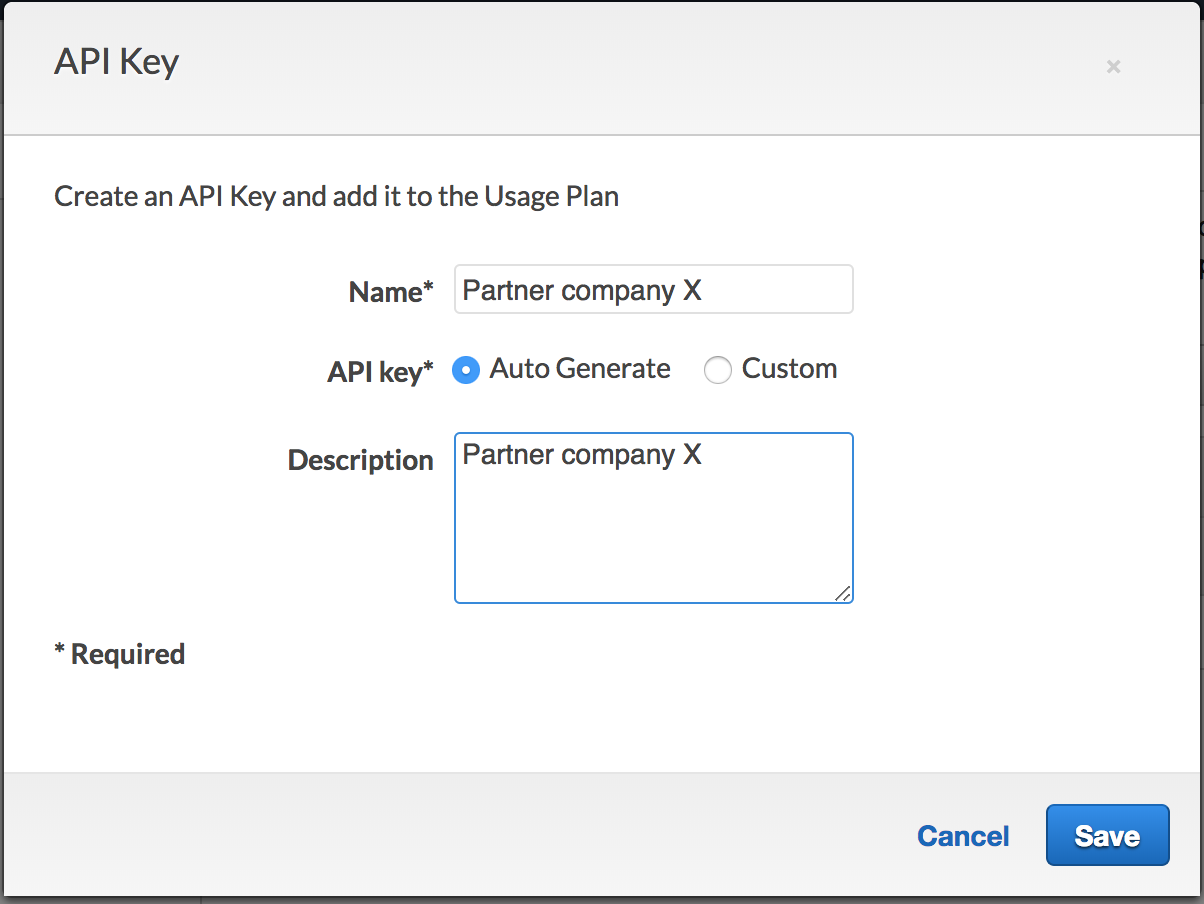
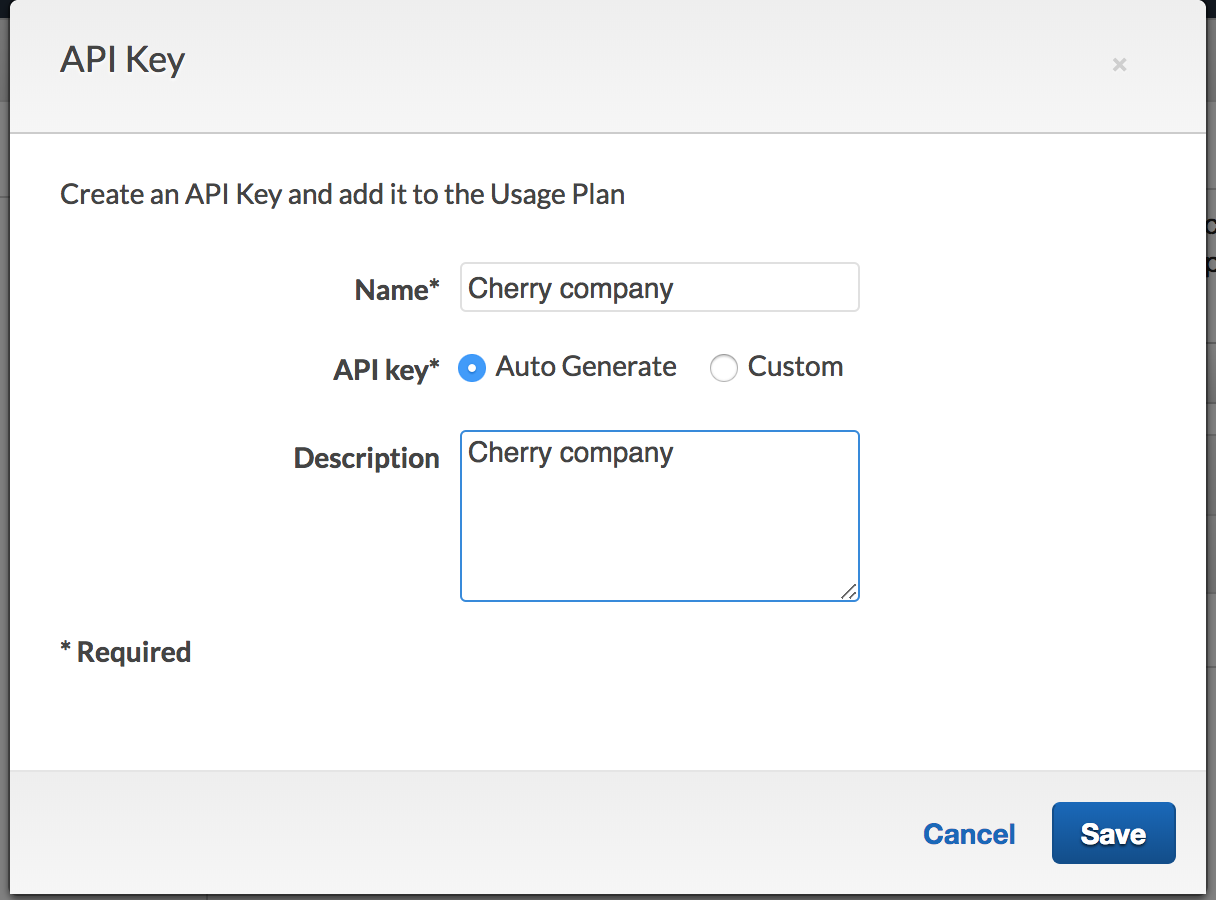
add instructions to look up API key

diff --git a/docs/05-usage-plan/README.md b/docs/05-usage-plan/README.md
@@ -29,6 +29,12 @@ To tally the number of requests based on the caller, API Gateway uses API Keys t
 	<details>
 	<summary><strong> If you have not done module 1, expand for instructions here </strong></summary>
 
+	* For Name, pick any name e.g.  `cherry company`. 
+	* For API Key, select **Auto Generate**
+	* Click **Save**
+
+
+	<img src="images/5A-auto-generate-API-key.png" />
 	</details> 
 	
 	<details>
@@ -39,6 +45,7 @@ To tally the number of requests based on the caller, API Gateway uses API Keys t
 	* For Name, use the company name you created in **Module 1: Auth**. 
 	* For API Key, select **Custom** so we can import the value
 	* In the inputbox that comes up, use the same value as the ClientID of the company (if you forgot it, you can retrieve it from the Cognito console and look under **App clients** tab
+	* Click **Save**
 	
 	![](images/5A-create-API-key.png)
 
@@ -156,11 +163,13 @@ Now, deploy the changes and verify:
 
 	Try sending an request using Postman like you did before. You should see the request fail with a **403 Forbidden** status code and a `{"message": "Forbidden"}` response. 
 	
-	> If the response is **401 Unauthorized**, most likely your access token is expired. Use Postman to request a new access token and try again.
+	> If the response is **401 Unauthorized** and if you have completed module 1, most likely your access token is expired. Use Postman to request a new access token and try again.
 
 1. You can add the API key request header by going to the **Header** tab, and put in 
 	* `x-api-key` for the header key
-	* The API Key (same as Client ID) that we added to the usage plan in module 5B 
+	* The value for the API Key that we added to the usage plan in module 5B:
+		* If you have done module 1: this should be same as the Cognito app Client ID
+		* If you have not done module 1: you can find the auto-generated API key value by going to the **API Keys** tab in the API gateway console --> click on the API key you created in module 5B --> click **Show** next to **API Key**	
 
 	You should now see the request go through
 	
